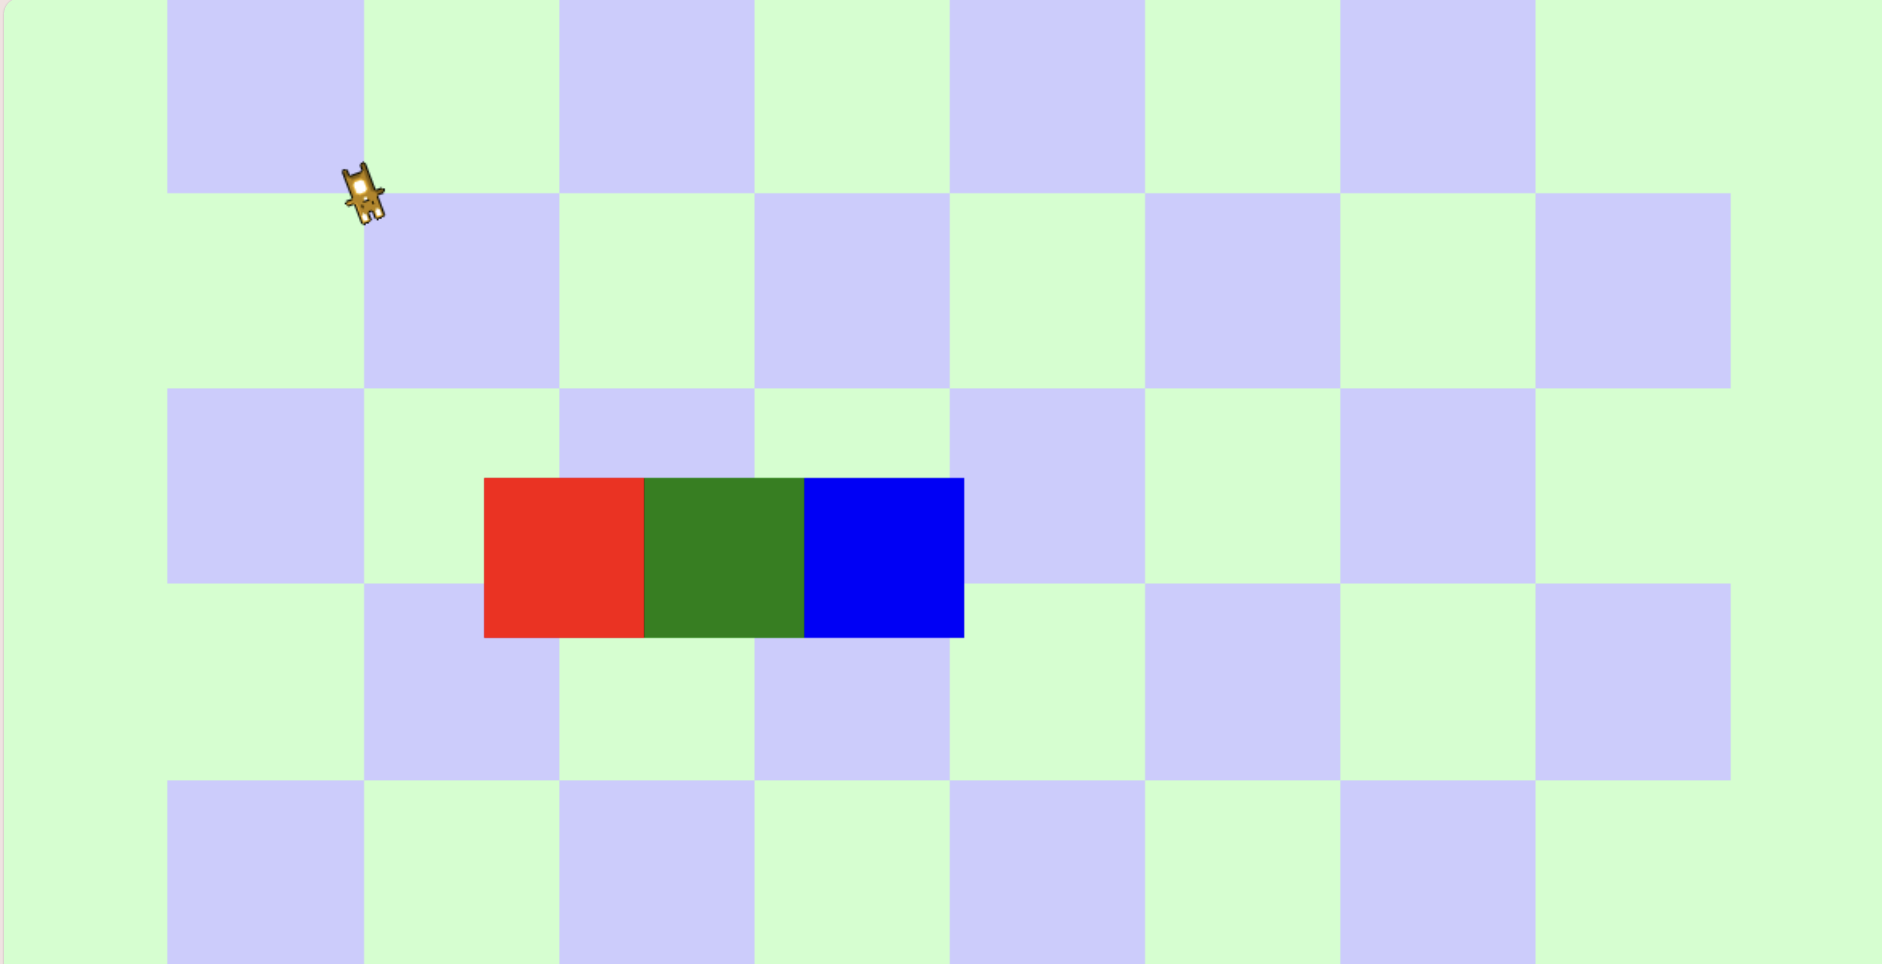
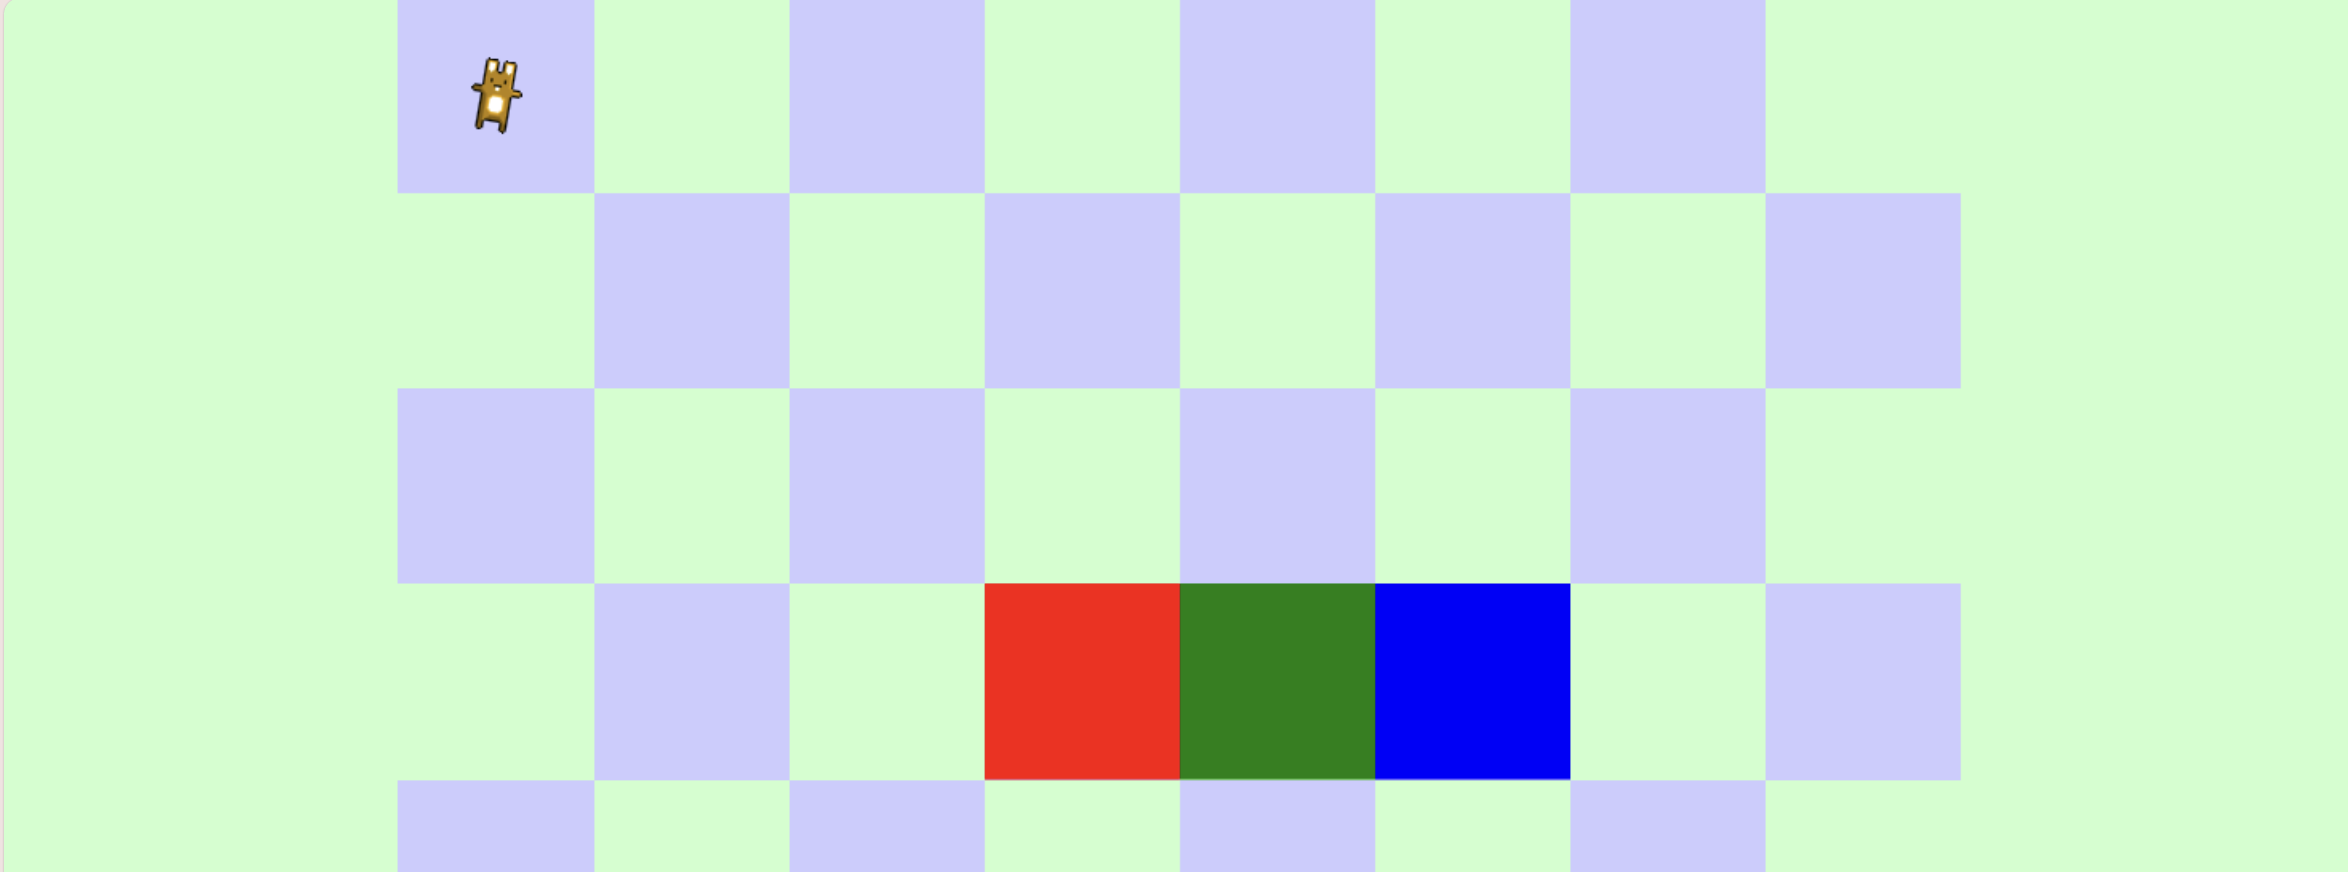
Resize the rootContainer

diff --git a/checkered-board-buttons/main.js b/checkered-board-buttons/main.js
@@ -10,7 +10,7 @@ import { Tile, CELL } from "./Tile";
 
 (async () => {
   let boardScale = 1.0;
-  let boardOrigin = { x: 0, y: 0 };
+  let boardOrigin = new Point();
 
   // the relative offset point of the click on the tile
   let grabPoint = new Point();
@@ -82,6 +82,16 @@ import { Tile, CELL } from "./Tile";
     boardOrigin.x = (appWidth - appSize) / 2;
     boardOrigin.y = (appHeight - appSize) / 2;
     rootContainer.position.set(boardOrigin.x, boardOrigin.y);
+
+    console.log(
+      "resizeRootContainer",
+      appWidth,
+      appHeight,
+      boardSize,
+      appSize,
+      boardScale,
+      boardOrigin
+    );
   }
 
   const bunny = await createBunny();
@@ -92,11 +102,12 @@ import { Tile, CELL } from "./Tile";
   });
 
   const onResize = () => {
-    resizeRootContainer(rootContainer, app.screen.width, app.screen.height);
+    console.log("onResize", CELL, app.screen.width, app.screen.height);
+    resizeRootContainer(app.screen.width, app.screen.height);
   };
 
   addEventListener("resize", onResize);
-  //onResize();
+  onResize();
 })();
 
 function createBackground() {
